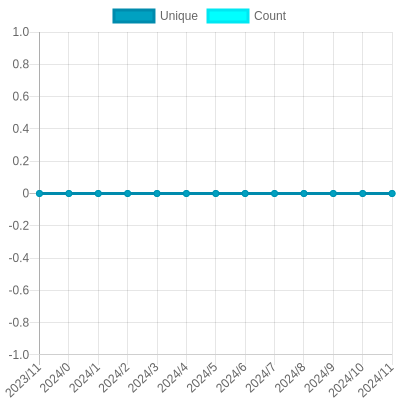
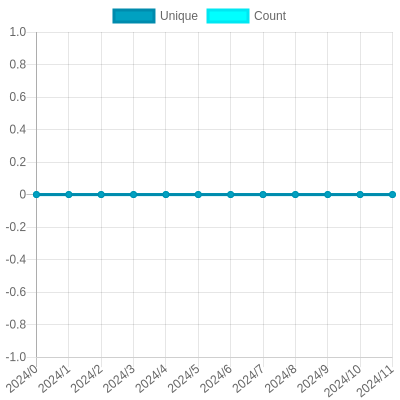
Update views

diff --git a/README.md b/README.md
@@ -26,7 +26,7 @@ The project created and maintained by [gayanvoice](https://github.com/gayanvoice
 			</a>
 		</td>
 		<td>
-			2023/12/29 12:55 AM UTC
+			2023/12/30 1:03 AM UTC
 		</td>
 		<td>
 			29
@@ -37,7 +37,7 @@ The project created and maintained by [gayanvoice](https://github.com/gayanvoice
 	</tr>
 </table>
 
-<small><i>Last updated on 2023/12/31 6:16 PM UTC</i></small>
+<small><i>Last updated on 2024/1/1 1:12 AM UTC</i></small>
 
 ## ✂Copy and 📋 Paste
 ### Total Views Badge

diff --git a/readme/262562670/year.md b/readme/262562670/year.md
@@ -150,21 +150,10 @@
 			<code>0</code>
 		</td>
 	</tr>
-	<tr>
-		<td>
-			<code>2022/12/1</code>
-		</td>
-		<td>
-			<code>0</code>
-		</td>
-		<td>
-			<code>0</code>
-		</td>
-	</tr>
 </table>
 
 </details>
-<small><i>Last updated on 2023/12/31 6:16 PM UTC</i></small>
+<small><i>Last updated on 2024/1/1 1:12 AM UTC</i></small>
 
 ## ✂Copy and 📋 Paste
 ### SVG Badge
